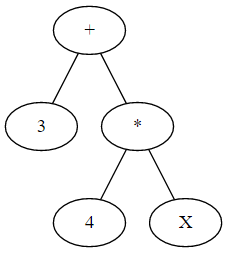
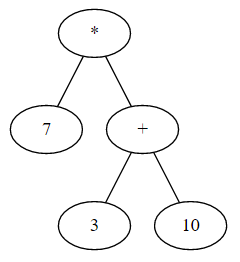
pres: Små ändringar i halvtidspresentationen

diff --git a/Redovisningar/Halvtidsredovisning/Oskar_manus.md b/Redovisningar/Halvtidsredovisning/Oskar_manus.md
@@ -23,9 +23,9 @@ Dom områden som är avslutade är enheter och vektorer. Till dom har både skap
 
 För att ge ett smakprov på vad resultatet blivit av vårt arbete tänkte jag vissa lite från ett syntax-träd som vi använder till differentialkalkyl.
 
-Trädet för ett uttryck består av konstruktorer för addition av två uttryck, multiplikation av två uttryck, en variabel med namn x samt en konsant.
+Trädet för ett uttryck består av konstruktorer för addition av två uttryck, multiplikation av två uttryck samt en konstant.
 
-Till exempel skrivs sju plus (x gånger dx) som Const 7 :+: (VarX :*: Diff).
+Till exempel för att skriva 7 gånger 3 plus 10, så skriver man Const 7 :*: (Const 3 :+: Const 10). Hur detta uttryck ser ut illustreras av detta svartvita träd.
 
 För att evaluera ett sådant träd delar man upp i olika fall, ett för varje konstruktor. Till exempel är addition de två delträden evaluderas, och deras resultat adderat.
 
@@ -33,13 +33,15 @@ Att göra ett sånt här träd kallas deep embedding, eftersom man fångar upp m
 
 # Egna erfarenheter
 
-Vi upptäckte att de saker i Fysik för ingenjörer som varit svåra inte är fysiken i sig. Istället har det varit den tillämpade matematik som ingår, exempelvis differentialkalkyl, varit det svåra.
+Vi upptäckte att de saker i Fysik för ingenjörer som varit svåra inte är fysiken i sig. Istället har det varit den tillämpade matematik som ingår som varit det svåra.
 
 Det har inneburit att de domänspecifika språk vi skapat mer handlat om matematik än fysik.
 
+Dessutom är fysik-uppgifter inget annat än räkneexempel i matematik, så det är svårt att modellera fysik i sig.
+
 # Avslutning
 
-För att sammanfatta vad kandidatarbetet handlar om, så är syftet att väcka intresse för fysik hos datateknologer. Och det tänker vi göra genom att skapa ett läromaterial som handlar om fysik sammanvävt med att domänspecifika språk för fysik skapas.
+För att sammanfatta vad kandidatarbetet handlar om, så är syftet att väcka intresse för fysik hos datastudenter. Och det tänker vi göra genom att skapa ett läromaterial som handlar om fysik sammanvävt med att domänspecifika språk för fysik skapas.
 
 Och eftersom vi gillar Haskell och vi gillar fysik, så vi tror detta kan bli ett skoj grej att kombinera dem!
 
